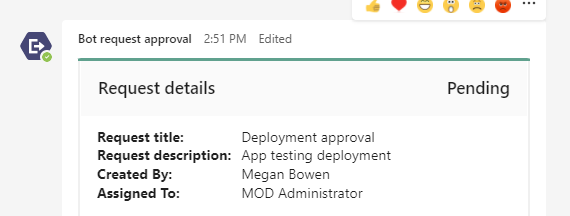
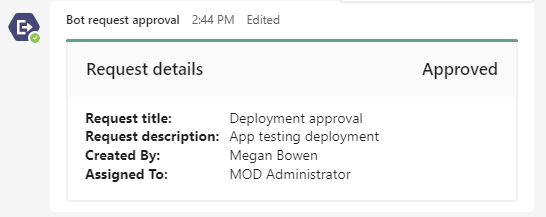
Resolving PR comments

diff --git a/samples/bot-request-approval/csharp/BotRequestApproval/Bots/ActivityBot.cs b/samples/bot-request-approval/csharp/BotRequestApproval/Bots/ActivityBot.cs
@@ -54,7 +54,7 @@ namespace BotRequestApproval.Bots
             {
                 if (member.Id != turnContext.Activity.Recipient.Id)
                 {
-                    await turnContext.SendActivityAsync(MessageFactory.Text($"Hello and welcome! With this sample you can send task request to your manager and your manager can approve/reject the request."), cancellationToken);
+                    await turnContext.SendActivityAsync(MessageFactory.Text("Hello and welcome! With this sample you can send task request to your manager and your manager can approve/reject the request."), cancellationToken);
                 }
             }
         }

diff --git a/samples/bot-request-approval/csharp/README.md b/samples/bot-request-approval/csharp/README.md
@@ -1,6 +1,6 @@
 ---
 page_type: sample
-description: This sample shows feature where user can send task request to his manager and manager can approve/reject request in groupchat.
+description: This sample shows a feature where user can send task request to his manager and manager can approve/reject the request in group chat.
 products:
 - office-teams
 - office
@@ -9,19 +9,19 @@ languages:
 - csharp
 extensions:
 contentType: samples
-createdDate: "6-12-2021 17:00:25"
+createdDate: "13-12-2021 17:00:25"
 ---
 
-# Send task request using universal adaptive cards in groupchat
+# Send task request using universal adaptive cards in group chat
 
 This sample shows a feature where:
-1. Requester : Can request for any task approval from manager by intiating request in groupchat using bot command `request` and only requester can edit the request card.
-2. Manager : Can see the request raised by user in the same groupchat with an option of approve or reject.
+1. Requester : Can request for any task approval from manager by intiating request in group chat using bot command `request` and only requester can edit the request card.
+2. Manager : Can see the request raised by user in the same group chat with an option of approve or reject.
 3. Others: Other members in the group chat can see the request details only.
 
 Requester:
 
-- Initiated request using bot command `request` in groupchat.
+- Initiated request using bot command `request` in group chat.
 
   ![Initial Card](BotRequestApproval/Images/InitialCard.png)
 
@@ -29,23 +29,24 @@ Requester:
 
   ![Request Card](BotRequestApproval/Images/RequestCard.png)
   
-- After submitting requester can edit or cancel the request.
+- After submitting the request, requester can edit or cancel the request.
 
   ![Edit/Cancel Card](BotRequestApproval/Images/EditCancelCard.png)
 
 Manager:
 
-- After user submit the request manager can approve/reject the request.
-
+- After requester submit the request, manager can approve/reject the request.
+  Note: Only the manager of the request will see the buttons to approve/reject the request.
+  
   ![Approve/Reject Card](BotRequestApproval/Images/ApproveRejectCard.png)
 
-- If manager approves or rejects the request card will be refreshed for all the members in groupchat.
+- If manager approves or rejects the request, card will be refreshed for all the members in group chat.
 
   ![Status Card](BotRequestApproval/Images/StatusCard.png)
   
 Others:
 
-- Other members in groupchat cand see request details only.
+- Other members in group chat can see the request details only.
 
 ![Other member Card](BotRequestApproval/Images/OtherMemberCard.png)
 
